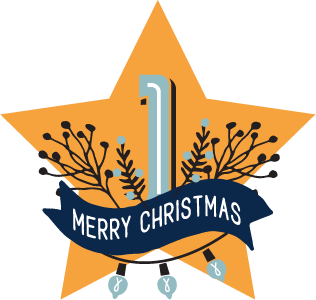
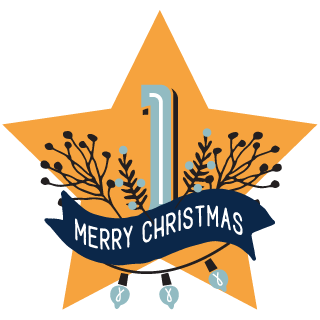
- Correction pour supprimer les lignes vides des fichiers de tirage au sort

Changed region(s): [[0.0, 0.0, 0.9968, 1.0], [0.9114, 0.45, 0.9399, 0.48]]

diff --git a/public/1-css/3-Calendrier.css b/public/1-css/3-Calendrier.css
@@ -52,7 +52,7 @@ body{
 }
 
 .bordure-0{
-  --taille-fin: calc(var(--taille) - 1em);
+  --taille-fin: calc(var(--taille) - var(--taille-bordure) * 2);
 }
 
 .bordure-1{
@@ -120,33 +120,37 @@ body{
 
 .sm{
   --taille: 5em;
-  --top-chiffre: -60%;
+  --taille-bordure: 0.4em;
+  --top-chiffre: -63%;
   --font-chiffre: 2em;
-  --top-texte: 10%;
+  --top-texte: 12%;
   --font-texte: 3em;
 }
 
 .md{
   --taille: 8em;
-  --top-chiffre: -52%;
+  --taille-bordure: 0.5em;
+  --top-chiffre: -54%;
   --font-chiffre: 3em;
-  --top-texte: 12%;
+  --top-texte: 14%;
   --font-texte: 5em;
 }
 
 .lg{
   --taille: 10em;
-  --top-chiffre: -47%;
+  --taille-bordure: 0.6em;
+  --top-chiffre: -50%;
   --font-chiffre: 4em;
-  --top-texte: 15%;
+  --top-texte: 17%;
   --font-texte: 6em;
 }
 
 .xl{
   --taille: 11em;
-  --top-chiffre: -55%;
+  --taille-bordure: 0.7em;
+  --top-chiffre: -57%;
   --font-chiffre: 5em;
-  --top-texte: 13%;
+  --top-texte: 15%;
   --font-texte: 7em;
 }
 

diff --git a/src/Controller/Administration.php b/src/Controller/Administration.php
@@ -22,25 +22,25 @@ class Administration extends AbstractController
                 'icone' => 'fa-tools text-danger',
                 'titre' => 'Administration.Titre.Outils',
                 'description' => 'Administration.Description.Outils',
-                'lien' => $this->generateUrl('Configuration2', [ 'cas' => 'Outil' ]),
+                'lien' => $this->generateUrl('Configuration', [ 'cas' => 'Outil' ]),
             ],
             [
                 'icone' => 'fa-palette text-warning',
                 'titre' => 'Administration.Titre.Graphismes',
                 'description' => 'Administration.Description.Graphismes',
-                'lien' => $this->generateUrl('Configuration2', [ 'cas' => 'Graphisme' ]),
+                'lien' => $this->generateUrl('Configuration', [ 'cas' => 'Graphisme' ]),
             ],
             [
                 'icone' => 'fa-egg text-tertiary',
                 'titre' => 'Administration.Titre.Oeufs',
                 'description' => 'Administration.Description.Oeufs',
-                'lien' => $this->generateUrl('Configuration2', [ 'cas' => 'Surprise' ]),
+                'lien' => $this->generateUrl('Configuration', [ 'cas' => 'Surprise' ]),
             ],
             [
                 'icone' => 'fa-file-csv text-success',
                 'titre' => 'Administration.Titre.Fichiers',
                 'description' => 'Administration.Description.Fichiers',
-                'lien' => $this->generateUrl('Configuration2', [ 'cas' => 'Fichier' ]),
+                'lien' => $this->generateUrl('Configuration', [ 'cas' => 'Fichier' ]),
             ],
         ];
 
@@ -55,17 +55,17 @@ class Administration extends AbstractController
 
     #[Route(
         '/Configuration/{cas}',
-        name: 'Configuration2',
+        name: 'Configuration',
         methods: [ 'GET', 'POST' ],
         requirements: [ 'cas' => '^(Outil|Graphisme|Surprise|Fichier)$' ]
     )]
     public function configuration(string $cas): Response
     {
         return $this->render(
-            'configuration/configuration.html.twig',
+            'configuration/accueil.html.twig',
             [
                 'Indentation' => '  ',
-                'Type' => strtolower($cas),
+                'Cas' => strtolower($cas),
             ]
         );
     }

diff --git a/src/Service/Tirage.php b/src/Service/Tirage.php
@@ -84,7 +84,7 @@ class Tirage
     private function extractionCSV(string $clef): array
     {
         $contenu = $this->ressources->lecture($clef, $this->ressources::CAS_ORIGINAL);
-        $contenu = preg_split("/\R/", $contenu); /* Transforme la chaine en tableau (\R = \r\n, \n et \r) */
+        $contenu = preg_split("/\R/", $contenu, 0, PREG_SPLIT_NO_EMPTY); /* Transforme la chaine en tableau sans les lignes vides (\R = \r\n, \n et \r) */ /* phpcs:ignore Generic.Files.LineLength.TooLong */
         $contenu = array_slice($contenu !== false ? $contenu : [], 1, null, false); /* Supprimer la ligne d'entête */
 
         if (in_array($clef, $this->parametres->getTirage())) {

diff --git a/src/Service/Verification.php b/src/Service/Verification.php
@@ -25,7 +25,7 @@ class Verification
             return;
         }
 
-        if ($parametres->getConfiguration() === []) { // S'il n'y a pas eu de chargement de la configuration
+        if ($parametres->getConfiguration() === []) { /* S'il n'y a pas eu de chargement de la configuration */
             $this->cas = 2;
             return;
         }
